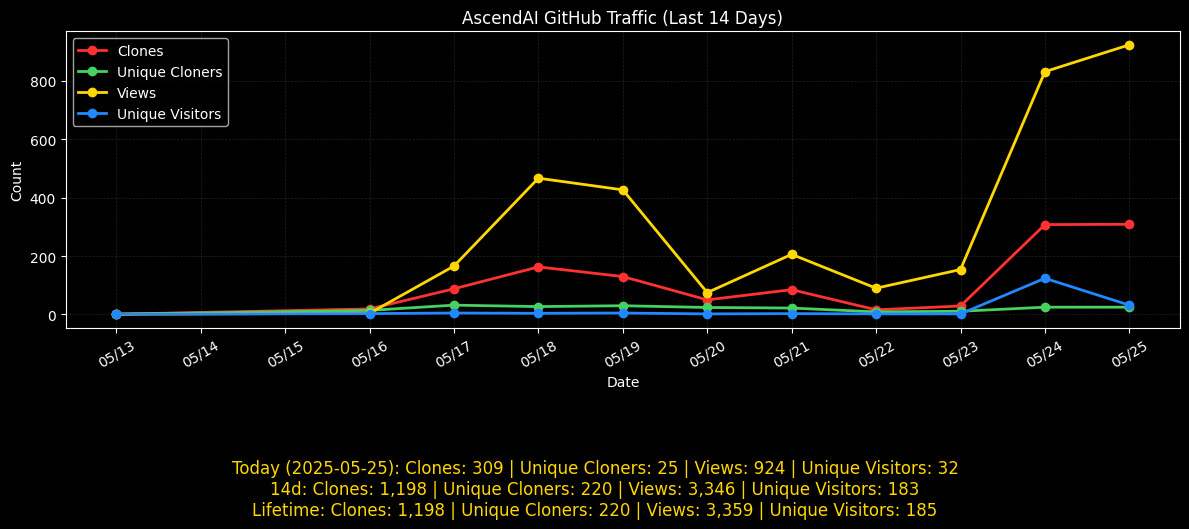
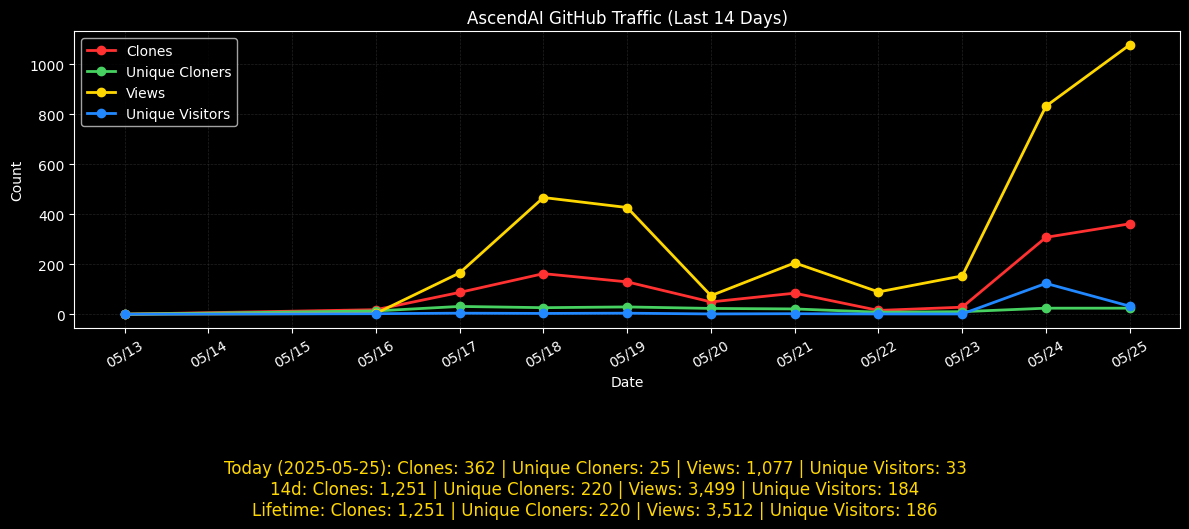
Update traffic data and graph

diff --git a/docs/dashboard.html b/docs/dashboard.html
@@ -30,7 +30,11 @@
   <div class="caption">
     <pre>
 <!-- AUTO-GENERATED TOTALS -->
-{{TRAFFIC_TOTALS}}
+**GitHub Traffic Totals**
+
+- **Today (2025-05-25):** Clones: 362 | Unique Cloners: 25 | Views: 1,077 | Unique Visitors: 33
+- **Last 14 days:** Clones: 1,251 | Unique Cloners: 220 | Views: 3,499 | Unique Visitors: 184
+- **Lifetime:** Clones: 1,251 | Unique Cloners: 220 | Views: 3,512 | Unique Visitors: 186
     </pre>
   </div>
 </body>
